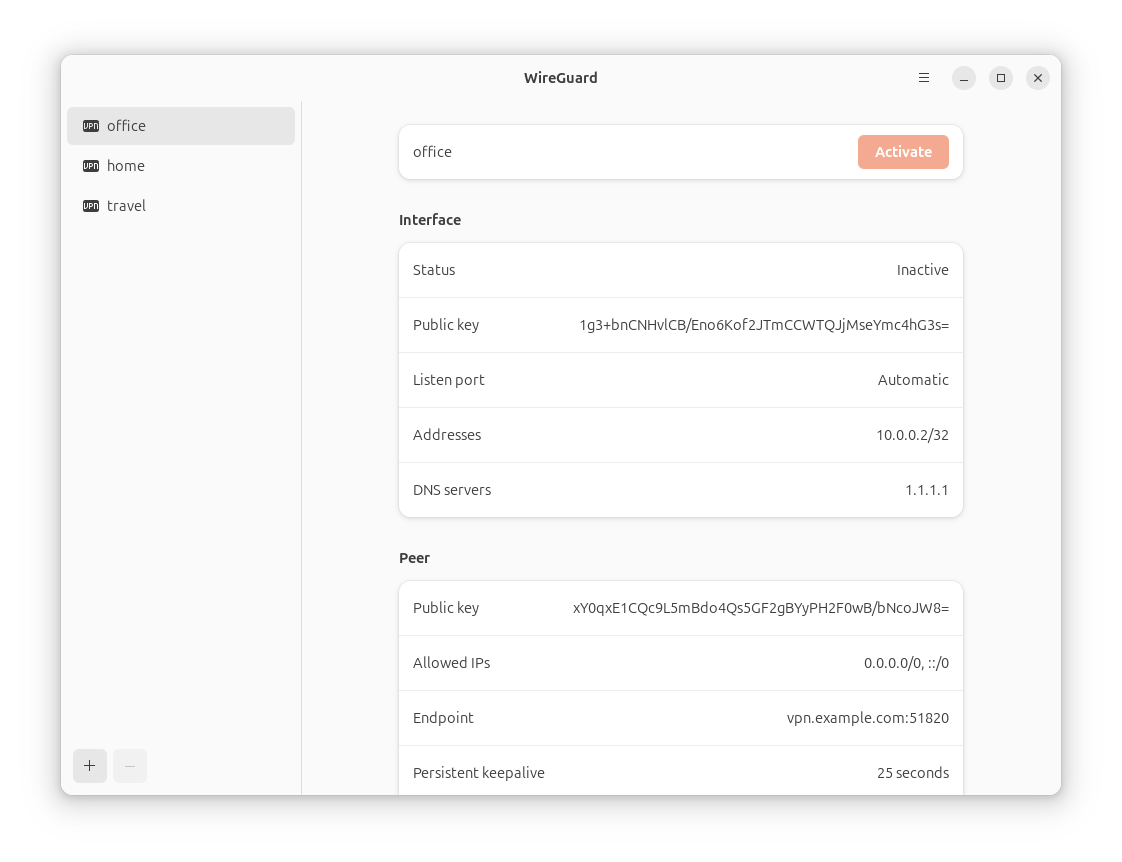
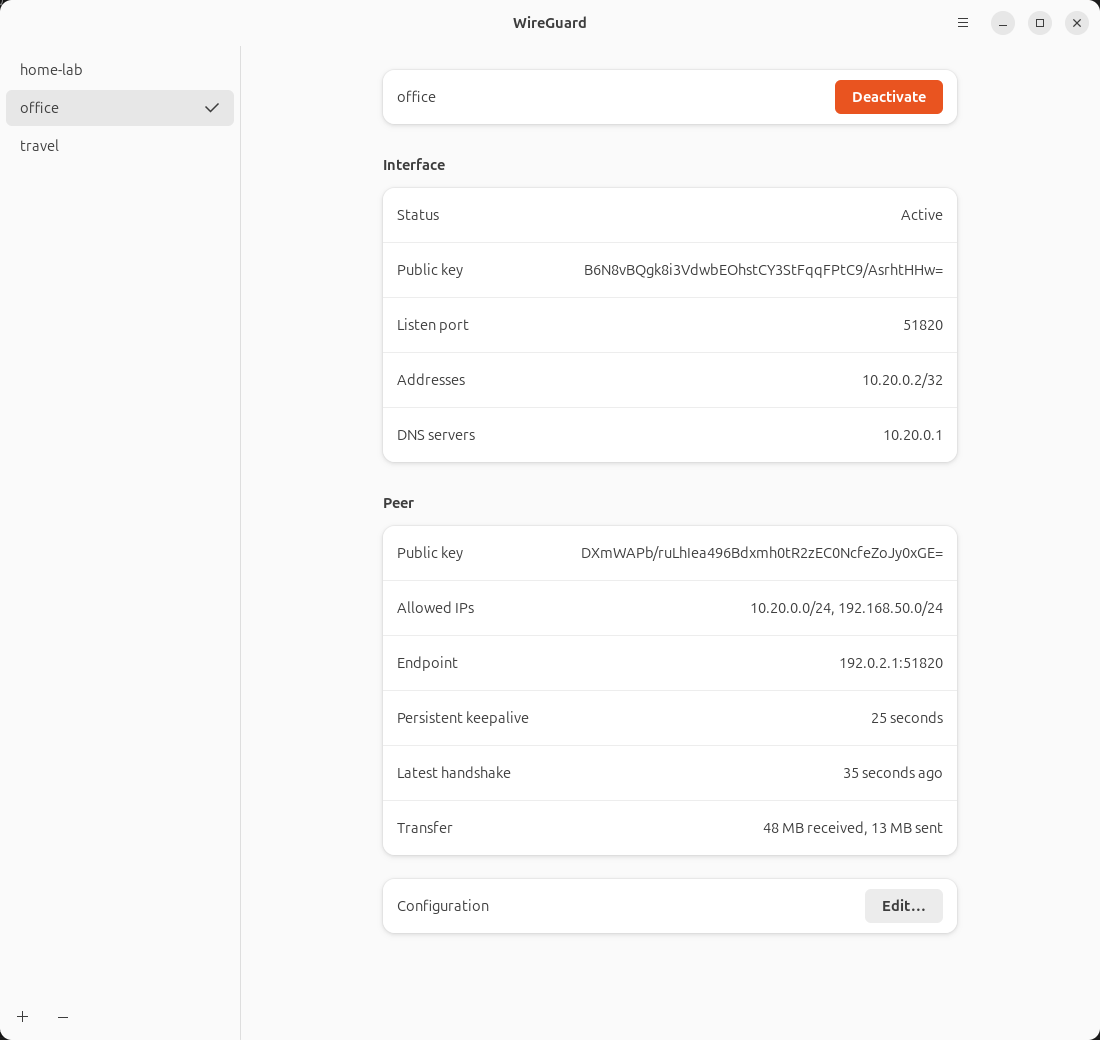
Expand user documentation and refresh screenshots
- Document installation, usage, preferences, tray behavior, and troubleshooting
- Add preferences and tray screenshots and update the main preview
- Move active tunnel checkmarks to the right of sidebar labels

diff --git a/gui/tunnels.go b/gui/tunnels.go
@@ -46,7 +46,6 @@ func (t *Tunnels) ScanTunnels() error {
 		icon.SetVisible(t.statusAvailable && contains(deviceNames(t.devices), name))
 		icon.SetTooltipText("Active tunnel")
 		t.icons[name] = icon
-		box.Append(icon)
 		flag := gtk.NewImage()
 		flag.SetPixelSize(20)
 		flag.SetVAlign(gtk.AlignCenter)
@@ -55,7 +54,9 @@ func (t *Tunnels) ScanTunnels() error {
 		box.Append(flag)
 		label := gtk.NewLabel(name)
 		label.SetXAlign(0)
+		label.SetHExpand(true)
 		box.Append(label)
+		box.Append(icon)
 		row.SetChild(box)
 		t.list.Append(row)
 		if name == t.lastSelected {

diff --git a/README.md b/README.md
@@ -1,94 +1,281 @@
 # wireguard-linux-gui
 
-A Linux GTK client for [WireGuard](https://www.wireguard.com/), based on
-[wireguird](https://github.com/UnnoTed/wireguird).
+A native Linux desktop client for [WireGuard](https://www.wireguard.com/).
+Import your VPN configuration, manage tunnels, and check connection activity
+from a GTK4/Libadwaita window or the system tray.
 
-The interface uses GTK4 and Libadwaita, with a native GNOME header bar,
-a tunnel sidebar, rounded Interface and Peer cards, and a preferences window.
-It follows system-supported light/dark appearance and accent colors without a
-bundled theme. The baseline is Ubuntu 24.04 (GTK 4.14 and Libadwaita 1.5).
+Based on [wireguird](https://github.com/UnnoTed/wireguird), with a GTK4 interface
+that follows the desktop's supported light/dark appearance and accent colors.
+The baseline platform is Ubuntu 24.04 with GTK 4.14 and Libadwaita 1.5.
 
-![wireguard-linux-gui interface with example tunnels](preview.png)
+![Tunnel screen showing the office demo profile active, its interface and peer details, latest handshake, and transfer counters](preview.png)
 
-- Lists tunnel configurations from `/etc/wireguard` and controls them with `wg-quick`.
-- Imports `.conf` and `.zip` files and exports tunnels to zip.
-- Includes a system tray menu and remembers connected tunnels by default.
-- Allows multiple active tunnels by default; disable this in Preferences if needed.
-- Preserves settings from `wireguird.settings` when the new settings file is absent.
-  Saving preferences writes `wireguard-linux-gui.settings`.
+*The screenshots use example profiles and simulated connection activity.
+No real VPN endpoint or private key is shown.*
 
-## Getting started
+[Installation](#installation) · [Usage](#usage) · [Preferences](#preferences) ·
+[System tray](#system-tray) · [Troubleshooting](#troubleshooting) ·
+[Contributing](#help-and-contributing)
 
-Use a Linux desktop with GTK 4.14+, Libadwaita 1.5+, `wireguard-tools`, and
-`resolvconf`. To build from a checkout, follow the
-[build instructions](CONTRIBUTING.md#build-and-run).
-To install a local build and test it from Applications, follow the
-[desktop testing instructions](CONTRIBUTING.md#install-locally-for-desktop-testing).
+## Features
 
-Launch an installed copy from your desktop application menu. The launcher uses
-`pkexec` to request root access, which is needed to read and manage tunnel
-configurations in `/etc/wireguard`.
+- Manage configurations in `/etc/wireguard` using `wg-quick`.
+- Create, edit, rename, import, export, and remove tunnel profiles.
+- Import one or more `.conf` files or a `.zip` archive; export profiles to zip.
+- Inspect interface status, public keys, addresses, DNS, peer endpoint,
+  allowed IPs, latest handshake, and received/sent traffic.
+- Keep several tunnels active, or switch to one active tunnel at a time.
+- Activate and deactivate tunnels from the system tray.
+- Optionally start at login, start in the tray, and reconnect remembered tunnels.
+- Show endpoint country flags and retain settings from the original wireguird.
 
-Use **+** to add an empty tunnel or import WireGuard `.conf` and `.zip` files.
-Select a tunnel to inspect its Interface and Peer fields, then activate it.
-Use **−** to remove it and the header menu for View Log, export, and preferences. The Edit
-button sits below the details panel.
+## Installation
 
-Preferences has **Cancel** and **Save** in its title bar. Country flags
-preview immediately when toggled; **Cancel** restores the saved preference.
-Closing Preferences with unsaved changes offers **Keep Editing**, **Discard**,
-or **Save**. Country flags use the endpoint's IP location and download a country
-database when first enabled.
+### Requirements
 
-**Start at login** is enabled automatically on the first launch for your desktop
-user when no login entry exists. Change it under **Preferences → General** and
-choose **Save**. An existing choice to disable startup stays disabled. This applies
-only to your user account. The normal administrator authentication prompt may appear at login;
-canceling it skips that launch. To stop launching at login, turn the preference
-off and save. **Start in the system tray** separately controls whether the main
-window appears; without an available tray host, the window is shown. Remembered
-tunnels reconnect after the app starts when **Remember connected tunnels** is on.
-This preference does not enable a VPN service at system boot.
+| Component | Requirement |
+| --- | --- |
+| Operating system | Linux; Ubuntu 24.04 is the baseline |
+| Interface libraries | GTK 4.14+ and Libadwaita 1.5+ |
+| Tunnel tools | `wireguard-tools` (`wg` and `wg-quick`) |
+| DNS integration | `resolvconf` for configurations that use `DNS` |
+| Desktop integration | A graphical session, D-Bus, and PolicyKit/`pkexec` |
+| System tray | A StatusNotifier host; Ubuntu includes one |
+| Building from source | Go 1.24+, a C toolchain, and native development libraries |
 
-The login entry is stored as `wireguard-linux-gui.desktop` under
-`$XDG_CONFIG_HOME/autostart` (normally `~/.config/autostart`). Disabling startup
-writes a `Hidden=true` entry. Launching through the desktop menu preserves a custom
+You need a WireGuard configuration from your VPN provider or server
+administrator. This app manages a WireGuard client; it does not supply a VPN
+service or provision a remote server.
+
+### Install `wg` and `wg-quick`
+
+Both commands are included in the **`wireguard-tools`** package; there is no
+separate `wg-quick` package to install on Ubuntu/Debian or Fedora.
+
+On Ubuntu 24.04 / Debian:
+
+```sh
+sudo apt update
+sudo apt install wireguard-tools
+```
+
+If your tunnel configuration contains a `DNS = ...` line, also install the DNS
+helper used by `wg-quick`:
+
+```sh
+sudo apt install resolvconf
+```
+
+On Fedora:
+
+```sh
+sudo dnf install wireguard-tools
+```
+
+Check that both commands are available:
+
+```sh
+command -v wg wg-quick
+wg --version
+```
+
+These checks do not activate a tunnel. Installing the tools is separate from
+installing this GUI. See the [official WireGuard installation guide](https://www.wireguard.com/install/)
+for other distributions and [Ubuntu's DNS guidance](https://ubuntu.com/server/docs/how-to/wireguard-vpn/common-tasks/)
+for `wg-quick` DNS integration.
+
+### Build from source
+
+Follow [development setup and build instructions](CONTRIBUTING.md#development-setup)
+for the native dependencies and build commands, then follow
+[local installation](CONTRIBUTING.md#install-locally-for-desktop-testing) to add
+the binary, desktop launcher, icons, and PolicyKit policy.
+
+Launch **WireGuard** from Applications after installation. The launcher uses
+`pkexec` to request administrator access for reading and managing
+`/etc/wireguard` and running `wg-quick`.
+
+### Packages
+
+Local package builds produce Linux **amd64** `.deb`, `.rpm`, and `.tar.gz`
+artifacts; see [packaging instructions](CONTRIBUTING.md#build-packages).
+Use packages built from this checkout for this GTK4 client. Historical releases
+and the app's update checker refer to the original **wireguird** repository;
+they are not releases of this renamed project.
+
+For removal, see [uninstallation instructions](CONTRIBUTING.md#remove-a-local-development-installation).
+
+## Usage
+
+### Import and connect
+
+1. Launch **WireGuard** and accept the administrator authentication prompt.
+2. Choose **+ → Import Tunnel(s) from File…** and select `.conf` or `.zip` files.
+3. Select a tunnel in the sidebar to inspect its Interface and Peer cards.
+4. Choose **Activate**. The status changes to **Active**, the sidebar gains a
+   checkmark, and the button changes to **Deactivate**.
+5. Check **Latest handshake** and **Transfer** for peer activity. Choose
+   **Deactivate** when you want to disconnect.
+
+Imports preserve existing profiles: a duplicate filename is rejected. Tunnel
+names must contain 1–15 letters, numbers, or `_ = + . -` characters, without the
+`.conf` extension; `.` and `..` are not valid names.
+
+**Active** means the local WireGuard interface is up. A recent handshake and
+changing transfer counters help confirm that the peer is responding. Status
+refreshes about every second while the window is open and every five seconds
+while hidden, including changes made through `wg-quick` or systemd. Reopening
+the window or toggling a tunnel requests an immediate refresh.
+
+### Create or edit a tunnel
+
+Choose **+ → Add Empty Tunnel…** to generate a private key and start a profile.
+Give it a name, fill in the configuration supplied by your administrator, and
+choose **Save**. Select an existing tunnel and use **Edit**, below its details,
+to change its name or configuration text.
+
+For example, a split tunnel can route only the office networks through WireGuard:
+
+```ini
+[Interface]
+PrivateKey = <your-client-private-key>
+Address = 10.20.0.2/32
+DNS = 10.20.0.1
+
+[Peer]
+PublicKey = <your-server-public-key>
+AllowedIPs = 10.20.0.0/24, 192.168.50.0/24
+Endpoint = 192.0.2.1:51820
+PersistentKeepalive = 25
+```
+
+This is an illustration, not a working VPN configuration. Replace both key
+placeholders and the documentation-only endpoint `192.0.2.1` with your own
+values; addresses, DNS, and allowed networks must match your server setup.
+Keep the generated private key secret and give your **public** key to the
+server administrator.
+
+### Export or remove profiles
+
+Use the header menu **Export Tunnels to Zip…** to back up all `.conf` profiles.
+Exported archives include private keys and any preshared keys; store them
+securely and remove secrets before sharing configurations or logs.
+
+Select a tunnel and choose **−** to remove its configuration after confirmation.
+Removing a profile leaves an already active interface running. Deactivate the
+tunnel before removing it if you also want to disconnect.
+
+### Keyboard shortcuts
+
+| Shortcut | Action |
+| --- | --- |
+| `Ctrl+O` | Import tunnels |
+| `Ctrl+,` | Open Preferences |
+| `F5` | Refresh the tunnel list |
+| `Ctrl+Q` | Quit the app |
+| `Esc` in the editor | Close, with confirmation if changes are unsaved |
+| `Esc` in Preferences | Close, with a save/discard prompt if changes are unsaved |
+
+## Preferences
+
+Open **Preferences…** from the header menu or press `Ctrl+,`.
+
+<img src="docs/screenshots/preferences.png" alt="Preferences window with Cancel and Save buttons and seven options for tunnels, startup, updates, country flags, and passwordless management" width="620">
+
+| Preference | Default on a fresh setup | Behavior |
+| --- | --- | --- |
+| Allow multiple active tunnels | On | Keep existing tunnels connected when activating another. With this off, activating a tunnel disconnects other active tunnels first. |
+| Start at login | On when a desktop user is identified and no entry exists | Open the app when that desktop user signs in. Existing enabled or disabled entries are respected. |
+| Start in the system tray | Off | Hide the main window at startup when a tray host is available. |
+| Check for updates | Off | Check releases of the original wireguird project. |
+| Remember connected tunnels | On | Reconnect remembered tunnels after the app starts. |
+| Show country flags | Off | Look up the endpoint's country and show its flag in the sidebar. |
+| Allow passwordless management | Off | Modify the installed app PolicyKit policy to allow management without an administrator password prompt. This affects the installed policy for all users. |
+
+Choose **Save** to apply changes or **Cancel** to restore saved values. Closing
+with unsaved changes offers **Keep Editing**, **Discard**, or **Save**. Country
+flags preview immediately; canceling restores the saved flag preference.
+
+### Login startup
+
+**Start at login** applies to the desktop user who launched the app. Administrator
+authentication may appear at login; canceling skips that launch. If no non-root
+desktop user can be identified, the preference is unavailable.
+
+**Start in the system tray** controls window visibility separately. Without a
+tray host, the app shows its window. **Remember connected tunnels** controls
+reconnection after the app starts; it does not enable a VPN service at system boot.
+
+The login entry is `wireguard-linux-gui.desktop` under
+`$XDG_CONFIG_HOME/autostart` (normally `~/.config/autostart`). Turning startup off
+and saving writes `Hidden=true`. Desktop-menu launches preserve a custom
 `XDG_CONFIG_HOME`; direct `sudo` launches use the invoking user's `~/.config`.
-The preference is unavailable when no non-root desktop user can be identified.
 
-Closing the window keeps the app in the system tray when a StatusNotifier host
-is available (Ubuntu includes one). Without a host, the window stays accessible
-and closing it exits the app. Launching it again or
-choosing **Manage Tunnels** in the tray brings back the existing window. Choose **Quit WireGuard**
-to exit the app; active tunnels continue running independently.
+## System tray
 
-The tray uses the WireGuard dragon as a symbolic icon: dimmed when inactive,
-and the panel’s normal foreground color when active, following its light/dark theme.
+The WireGuard dragon icon is dimmed when inactive and uses the panel's foreground
+color when active, following the panel's light/dark theme.
 
-The tray icon, tunnel checkmarks, and profile status refresh from live WireGuard
-interfaces every second while the window is open and every five seconds while
-hidden. Reopening the window or activating/deactivating a tunnel refreshes
-immediately. Status queries run in the background and include changes made with
-`wg-quick` or systemd. The tray menu shows **Status**, active **Networks**, and **Deactivate**, followed
-by tunnel checkmarks, management and import actions, About, and Quit. Networks
-and Deactivate are hidden when inactive. Activation is disabled when status
-is unavailable; tunnel controls are disabled when no profile is selected.
-An active interface does not guarantee that a peer is reachable; check the
-latest handshake and transfer counters for peer activity.
+| Active | Inactive |
+| --- | --- |
+| ![Active WireGuard panel icon](docs/screenshots/tray-active-icon.png)<br>![Active tray menu showing status, routed networks, Deactivate, and a checked office tunnel](docs/screenshots/tray-active.png) | ![Inactive WireGuard panel icon](docs/screenshots/tray-inactive-icon.png)<br>![Inactive tray menu showing inactive status and unchecked tunnels](docs/screenshots/tray-inactive.png) |
 
-Local package builds produce `.deb`, `.rpm`, and `.tar.gz` files; see
-[packaging instructions](CONTRIBUTING.md#build-packages).
+The tray menu shows **Status**, tunnel checkmarks, **Manage Tunnels**, import,
+About, and Quit. When active, it also shows **Networks** and **Deactivate**
+(**Deactivate All** for several interfaces). Tunnel actions are disabled when
+live status is unavailable.
 
-Historical wireguird releases and the release check still point to the original
-upstream repository. They are not releases of this renamed project.
+Closing the window keeps the app in the tray when a StatusNotifier host is
+available. Choose **Manage Tunnels** or launch the app again to reopen the
+existing window. Without a host, closing the window exits the app.
+
+**Quit WireGuard** exits the GUI and leaves active tunnels running. Deactivate
+them first if you want to disconnect as well.
+
+## Configuration and privacy
+
+| Data | Location / handling |
+| --- | --- |
+| Tunnel profiles | `/etc/wireguard/*.conf`; profiles created or imported by the app are owner-readable/writable only (`0600`) |
+| App preferences | `wireguard-linux-gui.settings` in the process's working directory |
+| Legacy preferences | `wireguird.settings` in that directory is loaded if the new file is absent; subsequent saves use the new filename |
+| Login startup | The desktop user's XDG autostart directory, described above |
+| Country database | `countries.mmdb` in the working directory, downloaded when flags are enabled and the database is missing or older than a week |
+
+Country lookup downloads the database from
+[IPLocate's public database repository](https://github.com/iplocate/ip-address-databases)
+and resolves hostname endpoints through your system resolver. IP-to-country
+lookups then use the local database. Private or unrecognized endpoints may have
+no flag. Enabling update checks contacts GitHub for original wireguird releases.
+
+## Troubleshooting
+
+| Symptom | What to check |
+| --- | --- |
+| No tunnels listed | Import a profile or check that `.conf` files exist in `/etc/wireguard`. Use `F5` to refresh. |
+| Activation fails | Open **View Log** in the header menu. Check keys, endpoint, routing, `wg-quick`, and `resolvconf` when the profile uses DNS. |
+| Active but no traffic | Check the latest handshake, transfer counters, server configuration, allowed IPs, and endpoint reachability. Interface status alone does not confirm a connection to the peer. |
+| Status is unknown / controls disabled | Live WireGuard status could not be read. Check administrator access and logs, then refresh. |
+| No tray icon | Check that the desktop provides a StatusNotifier host. The window remains accessible without one. |
+| App opens at login unexpectedly | Turn off **Preferences → Start at login** and save. Starting in the tray is a separate setting. |
+| Preferences will not save | Check write access to the working directory, the user's autostart directory, or the installed PolicyKit policy, depending on the changed option. |
+| Build fails on GTK or introspection | Follow [native dependency troubleshooting](CONTRIBUTING.md#troubleshoot-missing-native-dependencies). |
 
 ## Help and contributing
 
-Open an issue in this repository for bugs or feature requests. See
-[CONTRIBUTING.md](CONTRIBUTING.md) for development setup, testing, build
-troubleshooting, and guidance on issues and pull requests.
+Search this repository's issues before reporting a bug or requesting a feature.
+Include the distribution, desktop environment, app version or commit,
+reproduction steps, and relevant logs. Remove private keys, preshared keys, and
+other secrets from attachments.
 
-## License
+See [CONTRIBUTING.md](CONTRIBUTING.md) for development setup, tests, packaging,
+and pull request guidance. Contributions to code, documentation, and the
+interface are welcome.
+
+## Credits and license
+
+Based on [UnnoTed/wireguird](https://github.com/UnnoTed/wireguird).
+WireGuard is developed by the [WireGuard project](https://www.wireguard.com/).
 
 [MIT](LICENSE). See [third-party notices](THIRD_PARTY_NOTICES.md) for the
 MPL-2.0 GTK4/Libadwaita bindings and their source links.
